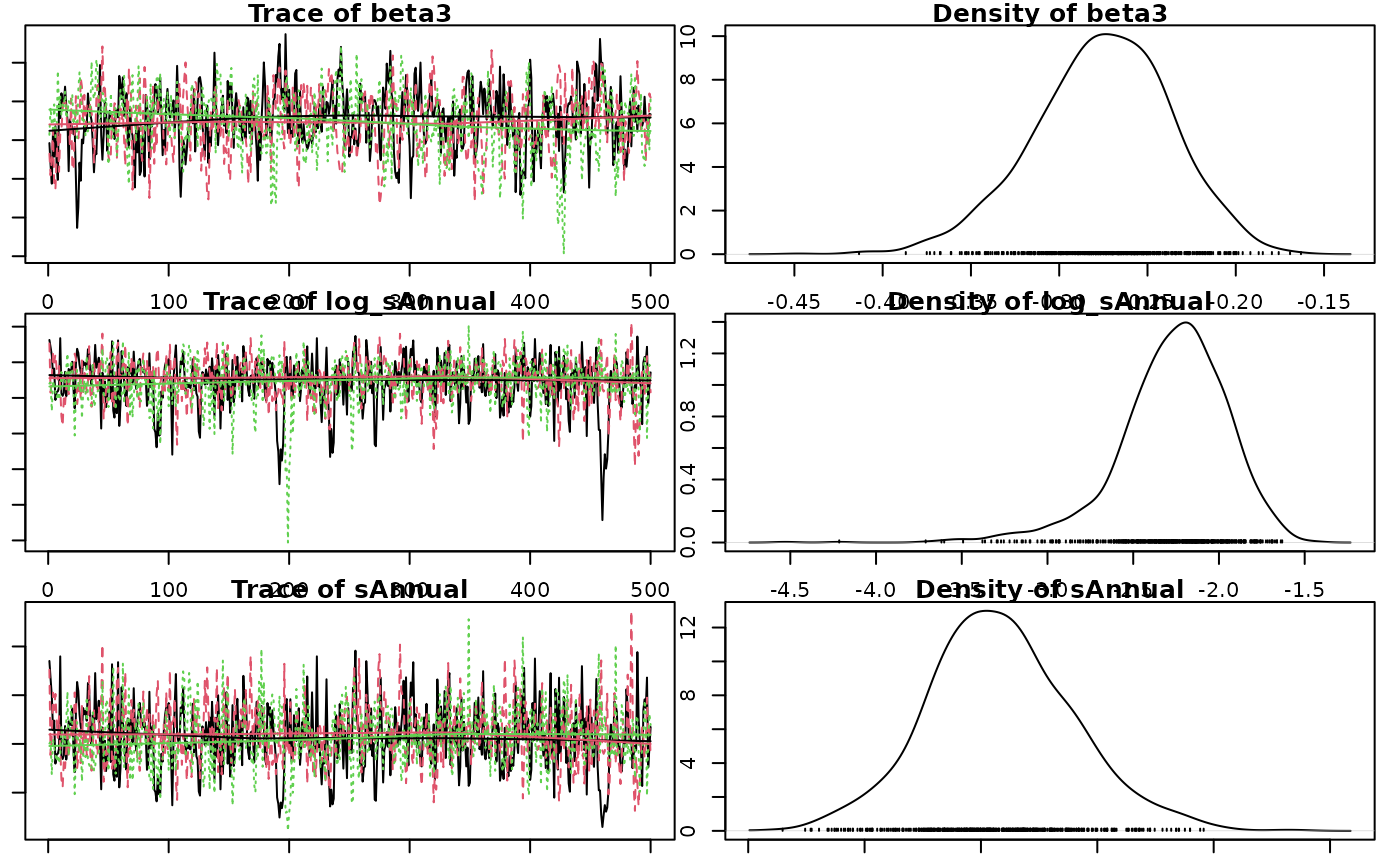
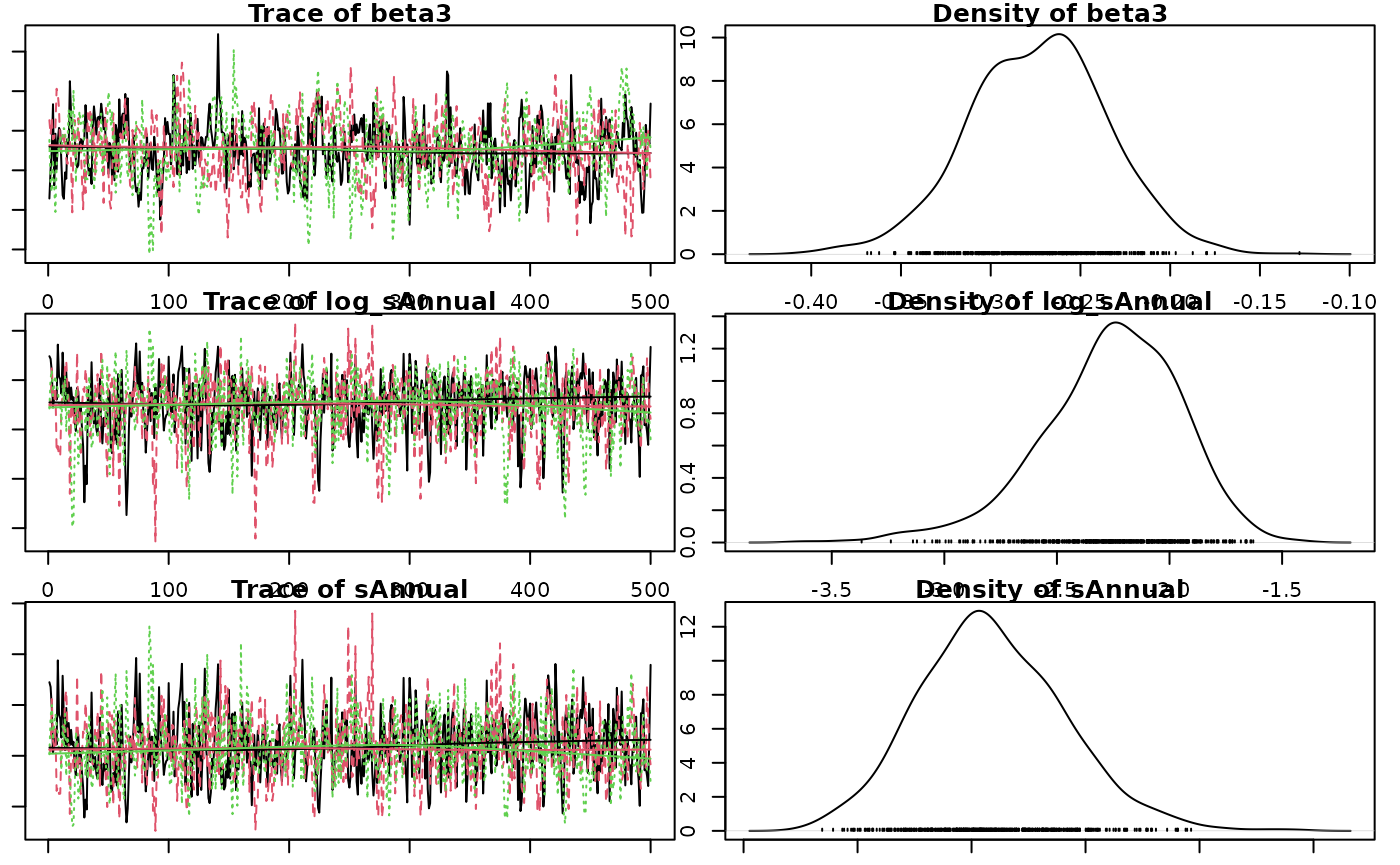
Built site for jmbr@0.0.0.9124: 934530a

diff --git a/articles/jmbr.html b/articles/jmbr.html
@@ -300,14 +300,14 @@ value and discarding all other values.</p>
 <span><span class="co">#&gt; <span style="color: #949494;"># A tibble: 1 × 8</span></span></span>
 <span><span class="co">#&gt;       n     K nchains niters nthin   ess  rhat converged</span></span>
 <span><span class="co">#&gt;   <span style="color: #949494; font-style: italic;">&lt;int&gt;</span> <span style="color: #949494; font-style: italic;">&lt;int&gt;</span>   <span style="color: #949494; font-style: italic;">&lt;int&gt;</span>  <span style="color: #949494; font-style: italic;">&lt;int&gt;</span> <span style="color: #949494; font-style: italic;">&lt;int&gt;</span> <span style="color: #949494; font-style: italic;">&lt;int&gt;</span> <span style="color: #949494; font-style: italic;">&lt;dbl&gt;</span> <span style="color: #949494; font-style: italic;">&lt;lgl&gt;</span>    </span></span>
-<span><span class="co">#&gt; <span style="color: #BCBCBC;">1</span>    40     6       3    500    10   236  1.32 FALSE</span></span>
+<span><span class="co">#&gt; <span style="color: #BCBCBC;">1</span>    40     6       3    500    10   238  1.34 FALSE</span></span>
 <span><span class="co">#&gt; Warning in value[[3L]](cond): beep() could not play the sound due to the following error:</span></span>
 <span><span class="co">#&gt; Error in play.default(x, rate, ...): no audio drivers are available</span></span>
 <span><span class="va">analysis</span> <span class="op">&lt;-</span> <span class="fu"><a href="https://rdrr.io/pkg/embr/man/reanalyse.html" class="external-link">reanalyse</a></span><span class="op">(</span><span class="va">analysis</span><span class="op">)</span></span>
 <span><span class="co">#&gt; <span style="color: #949494;"># A tibble: 1 × 8</span></span></span>
 <span><span class="co">#&gt;       n     K nchains niters nthin   ess  rhat converged</span></span>
 <span><span class="co">#&gt;   <span style="color: #949494; font-style: italic;">&lt;int&gt;</span> <span style="color: #949494; font-style: italic;">&lt;int&gt;</span>   <span style="color: #949494; font-style: italic;">&lt;int&gt;</span>  <span style="color: #949494; font-style: italic;">&lt;int&gt;</span> <span style="color: #949494; font-style: italic;">&lt;int&gt;</span> <span style="color: #949494; font-style: italic;">&lt;int&gt;</span> <span style="color: #949494; font-style: italic;">&lt;dbl&gt;</span> <span style="color: #949494; font-style: italic;">&lt;lgl&gt;</span>    </span></span>
-<span><span class="co">#&gt; <span style="color: #BCBCBC;">1</span>    40     6       3    500    20   458  1.01 TRUE</span></span>
+<span><span class="co">#&gt; <span style="color: #BCBCBC;">1</span>    40     6       3    500    20   368  1.00 TRUE</span></span>
 <span><span class="co">#&gt; Warning in value[[3L]](cond): beep() could not play the sound due to the following error:</span></span>
 <span><span class="co">#&gt; Error in play.default(x, rate, ...): no audio drivers are available</span></span></code></pre></div>
 <p><strong>Analysis Table:</strong></p>
@@ -357,12 +357,12 @@ between- and within-chain estimates for model parameters.
 <span><span class="co">#&gt; <span style="color: #949494;"># A tibble: 6 × 7</span></span></span>
 <span><span class="co">#&gt;   term        estimate     sd  zscore   lower   upper   pvalue</span></span>
 <span><span class="co">#&gt;   <span style="color: #949494; font-style: italic;">&lt;term&gt;</span>         <span style="color: #949494; font-style: italic;">&lt;dbl&gt;</span>  <span style="color: #949494; font-style: italic;">&lt;dbl&gt;</span>   <span style="color: #949494; font-style: italic;">&lt;dbl&gt;</span>   <span style="color: #949494; font-style: italic;">&lt;dbl&gt;</span>   <span style="color: #949494; font-style: italic;">&lt;dbl&gt;</span>    <span style="color: #949494; font-style: italic;">&lt;dbl&gt;</span></span></span>
-<span><span class="co">#&gt; <span style="color: #BCBCBC;">1</span> alpha         4.26   0.041<span style="text-decoration: underline;">1</span> 104.     4.18    4.34   0.000<span style="text-decoration: underline;">666</span></span></span>
-<span><span class="co">#&gt; <span style="color: #BCBCBC;">2</span> beta1         1.20   0.077<span style="text-decoration: underline;">0</span>  15.6    1.06    1.36   0.000<span style="text-decoration: underline;">666</span></span></span>
-<span><span class="co">#&gt; <span style="color: #BCBCBC;">3</span> beta2        -<span style="color: #BB0000;">0.018</span><span style="color: #BB0000; text-decoration: underline;">4</span> 0.030<span style="text-decoration: underline;">5</span>  -<span style="color: #BB0000;">0.594</span> -<span style="color: #BB0000;">0.080</span><span style="color: #BB0000; text-decoration: underline;">4</span>  0.042<span style="text-decoration: underline;">8</span> 0.540   </span></span>
-<span><span class="co">#&gt; <span style="color: #BCBCBC;">4</span> beta3        -<span style="color: #BB0000;">0.274</span>  0.039<span style="text-decoration: underline;">0</span>  -<span style="color: #BB0000;">7.07</span>  -<span style="color: #BB0000;">0.357</span>  -<span style="color: #BB0000;">0.204</span>  0.000<span style="text-decoration: underline;">666</span></span></span>
-<span><span class="co">#&gt; <span style="color: #BCBCBC;">5</span> log_sAnnual  -<span style="color: #BB0000;">2.23</span>   0.325   -<span style="color: #BB0000;">6.99</span>  -<span style="color: #BB0000;">3.04</span>   -<span style="color: #BB0000;">1.74</span>   0.000<span style="text-decoration: underline;">666</span></span></span>
-<span><span class="co">#&gt; <span style="color: #BCBCBC;">6</span> sAnnual       0.107  0.031<span style="text-decoration: underline;">5</span>   3.44   0.047<span style="text-decoration: underline;">7</span>  0.176  0.000<span style="text-decoration: underline;">666</span></span></span></code></pre></div>
+<span><span class="co">#&gt; <span style="color: #BCBCBC;">1</span> alpha         4.26   0.040<span style="text-decoration: underline;">1</span> 106.     4.18    4.34   0.000<span style="text-decoration: underline;">666</span></span></span>
+<span><span class="co">#&gt; <span style="color: #BCBCBC;">2</span> beta1         1.19   0.076<span style="text-decoration: underline;">0</span>  15.7    1.05    1.36   0.000<span style="text-decoration: underline;">666</span></span></span>
+<span><span class="co">#&gt; <span style="color: #BCBCBC;">3</span> beta2        -<span style="color: #BB0000;">0.016</span><span style="color: #BB0000; text-decoration: underline;">4</span> 0.030<span style="text-decoration: underline;">9</span>  -<span style="color: #BB0000;">0.538</span> -<span style="color: #BB0000;">0.079</span><span style="color: #BB0000; text-decoration: underline;">2</span>  0.047<span style="text-decoration: underline;">7</span> 0.580   </span></span>
+<span><span class="co">#&gt; <span style="color: #BCBCBC;">4</span> beta3        -<span style="color: #BB0000;">0.272</span>  0.038<span style="text-decoration: underline;">7</span>  -<span style="color: #BB0000;">7.08</span>  -<span style="color: #BB0000;">0.352</span>  -<span style="color: #BB0000;">0.201</span>  0.000<span style="text-decoration: underline;">666</span></span></span>
+<span><span class="co">#&gt; <span style="color: #BCBCBC;">5</span> log_sAnnual  -<span style="color: #BB0000;">2.24</span>   0.314   -<span style="color: #BB0000;">7.20</span>  -<span style="color: #BB0000;">2.99</span>   -<span style="color: #BB0000;">1.73</span>   0.000<span style="text-decoration: underline;">666</span></span></span>
+<span><span class="co">#&gt; <span style="color: #BCBCBC;">6</span> sAnnual       0.106  0.032<span style="text-decoration: underline;">0</span>   3.41   0.050<span style="text-decoration: underline;">2</span>  0.177  0.000<span style="text-decoration: underline;">666</span></span></span></code></pre></div>
 <p>The estimate is the <strong>median</strong> by default.</p>
 <p>The zscore is
 <math display="inline" xmlns="http://www.w3.org/1998/Math/MathML"><semantics><mrow><mi>m</mi><mi>e</mi><mi>a</mi><mi>n</mi><mi>/</mi><mi>s</mi><mi>d</mi></mrow><annotation encoding="application/x-tex">mean / sd</annotation></semantics></math>.</p>
@@ -372,11 +372,11 @@ between- and within-chain estimates for model parameters.
 <span><span class="co">#&gt;   term        estimate   lower   upper svalue</span></span>
 <span><span class="co">#&gt;   <span style="color: #949494; font-style: italic;">&lt;term&gt;</span>         <span style="color: #949494; font-style: italic;">&lt;dbl&gt;</span>   <span style="color: #949494; font-style: italic;">&lt;dbl&gt;</span>   <span style="color: #949494; font-style: italic;">&lt;dbl&gt;</span>  <span style="color: #949494; font-style: italic;">&lt;dbl&gt;</span></span></span>
 <span><span class="co">#&gt; <span style="color: #BCBCBC;">1</span> alpha         4.26    4.18    4.34   10.6  </span></span>
-<span><span class="co">#&gt; <span style="color: #BCBCBC;">2</span> beta1         1.20    1.06    1.36   10.6  </span></span>
-<span><span class="co">#&gt; <span style="color: #BCBCBC;">3</span> beta2        -<span style="color: #BB0000;">0.018</span><span style="color: #BB0000; text-decoration: underline;">4</span> -<span style="color: #BB0000;">0.080</span><span style="color: #BB0000; text-decoration: underline;">4</span>  0.042<span style="text-decoration: underline;">8</span>  0.888</span></span>
-<span><span class="co">#&gt; <span style="color: #BCBCBC;">4</span> beta3        -<span style="color: #BB0000;">0.274</span>  -<span style="color: #BB0000;">0.357</span>  -<span style="color: #BB0000;">0.204</span>  10.6  </span></span>
-<span><span class="co">#&gt; <span style="color: #BCBCBC;">5</span> log_sAnnual  -<span style="color: #BB0000;">2.23</span>   -<span style="color: #BB0000;">3.04</span>   -<span style="color: #BB0000;">1.74</span>   10.6  </span></span>
-<span><span class="co">#&gt; <span style="color: #BCBCBC;">6</span> sAnnual       0.107   0.047<span style="text-decoration: underline;">7</span>  0.176  10.6</span></span></code></pre></div>
+<span><span class="co">#&gt; <span style="color: #BCBCBC;">2</span> beta1         1.19    1.05    1.36   10.6  </span></span>
+<span><span class="co">#&gt; <span style="color: #BCBCBC;">3</span> beta2        -<span style="color: #BB0000;">0.016</span><span style="color: #BB0000; text-decoration: underline;">4</span> -<span style="color: #BB0000;">0.079</span><span style="color: #BB0000; text-decoration: underline;">2</span>  0.047<span style="text-decoration: underline;">7</span>  0.785</span></span>
+<span><span class="co">#&gt; <span style="color: #BCBCBC;">4</span> beta3        -<span style="color: #BB0000;">0.272</span>  -<span style="color: #BB0000;">0.352</span>  -<span style="color: #BB0000;">0.201</span>  10.6  </span></span>
+<span><span class="co">#&gt; <span style="color: #BCBCBC;">5</span> log_sAnnual  -<span style="color: #BB0000;">2.24</span>   -<span style="color: #BB0000;">2.99</span>   -<span style="color: #BB0000;">1.73</span>   10.6  </span></span>
+<span><span class="co">#&gt; <span style="color: #BCBCBC;">6</span> sAnnual       0.106   0.050<span style="text-decoration: underline;">2</span>  0.177  10.6</span></span></code></pre></div>
 <p>The s-value is the <strong>suprisal</strong> value, which is a
 measure of directionality with respect to zero.</p>
 <p>The s-value is zero (unsurprising) when <em>p-value</em> = 1.0 and
